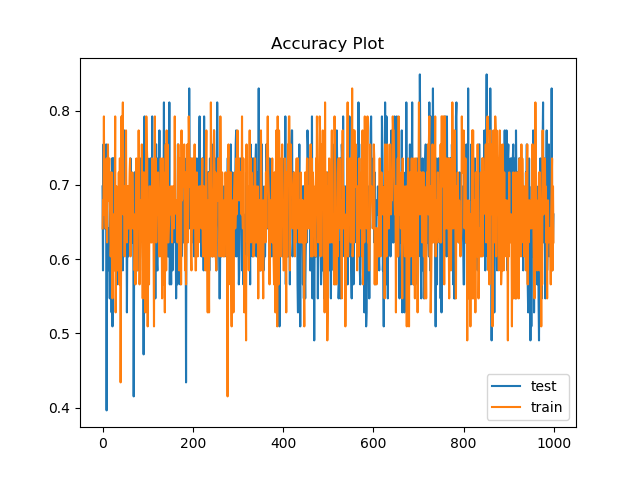
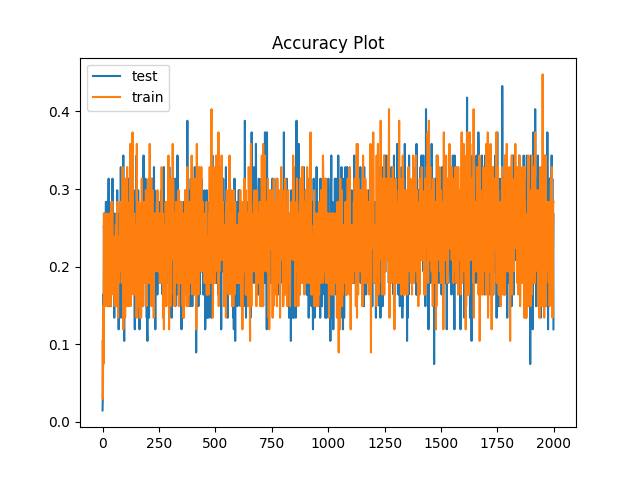
fix

diff --git a/main.py b/main.py
@@ -7,16 +7,25 @@ import matplotlib.pyplot as plt
 from ship import Ship
 from alien import Alien
 from bot import Bot
-import pickle
+#import pickle
+import pickle5 as pickle
+import pandas as pd
+
 
 
 
 class NN:
-    def __init__(self, input_size, hidden_size1, hidden_size2, output_size, learning_rate, num_epochs, batch_size, model_type):
+    def __init__(self, input_size, hidden_size1, hidden_size2, hidden_size3, hidden_size4, hidden_size5, hidden_size6, hidden_size7, hidden_size8,  output_size, learning_rate, num_epochs, batch_size, model_type):
         #np.random.seed(0)
         self.input_size = input_size
         self.hidden_size1 = hidden_size1
         self.hidden_size2 = hidden_size2
+        self.hidden_size3 = hidden_size3
+        self.hidden_size4 = hidden_size4
+        self.hidden_size5 = hidden_size5
+        self.hidden_size6 = hidden_size6
+        self.hidden_size7 = hidden_size7
+        self.hidden_size8 = hidden_size8
         self.output_size = output_size
         self.lr = learning_rate  #Haven't done anything smarter than standard SGD here
         self.epochs = num_epochs
@@ -41,10 +50,18 @@ class NN:
         self.b1 = np.zeros((self.hidden_size1, 1))
         self.W2 = np.random.randn(self.hidden_size2, self.hidden_size1) * math.sqrt(1.0/self.hidden_size1) #np.zeros(self.output_size, self.hidden_size) #np.random.randn(self.output_size, self.hidden_size) * 0.01
         self.b2 = np.zeros((self.hidden_size2, 1))
-        self.W3 = np.random.randn(self.output_size, self.hidden_size2) * math.sqrt(1.0/self.hidden_size2) #np.zeros(self.output_size, self.hidden_size) #np.random.randn(self.output_size, self.hidden_size) * 0.01
-        self.b3 = np.zeros((self.output_size, 1))
-        #self.W3 = np.random.randn(self.output_size, self.hidden_size2) * math.sqrt(1.0/self.hidden_size2) #np.zeros(self.output_size, self.hidden_size) #np.random.randn(self.output_size, self.hidden_size) * 0.01
-        #self.b3 = np.zeros((self.output_size, 1))
+        self.W3 = np.random.randn(self.hidden_size3, self.hidden_size2) * math.sqrt(1.0/self.hidden_size2) #np.zeros(self.output_size, self.hidden_size) #np.random.randn(self.output_size, self.hidden_size) * 0.01
+        self.b3 = np.zeros((self.hidden_size3, 1))
+        self.W4 = np.random.randn(self.hidden_size4, self.hidden_size3) * math.sqrt(1.0/self.hidden_size3) #np.zeros(self.output_size, self.hidden_size) #np.random.randn(self.output_size, self.hidden_size) * 0.01
+        self.b4 = np.zeros((self.hidden_size4, 1))
+        self.W5 = np.random.randn(self.hidden_size5, self.hidden_size4) * math.sqrt(1.0/self.hidden_size4) #np.zeros(self.output_size, self.hidden_size) #np.random.randn(self.output_size, self.hidden_size) * 0.01
+        self.b5 = np.zeros((self.hidden_size5, 1))
+        self.W6 = np.random.randn(self.hidden_size6, self.hidden_size5) * math.sqrt(1.0/self.hidden_size5) #np.zeros(self.output_size, self.hidden_size) #np.random.randn(self.output_size, self.hidden_size) * 0.01
+        self.b6 = np.zeros((self.hidden_size6, 1))
+        self.W7 = np.random.randn(self.hidden_size7, self.hidden_size6) * math.sqrt(1.0/self.hidden_size6) #np.zeros(self.output_size, self.hidden_size) #np.random.randn(self.output_size, self.hidden_size) * 0.01
+        self.b7 = np.zeros((self.hidden_size7, 1))
+        self.W8 = np.random.randn(self.output_size, self.hidden_size7) * math.sqrt(1.0/self.hidden_size7) #np.zeros(self.output_size, self.hidden_size) #np.random.randn(self.output_size, self.hidden_size) * 0.01
+        self.b8 = np.zeros((self.output_size, 1))
     
     #Activation & Loss Functions
     def sigmoid(self, x):
@@ -98,14 +115,30 @@ class NN:
         #else:
         A2 = self.relu(Z2)
         #self.A2 = self.relu(self.Z2)
-        
+
         Z3 = np.matmul(self.W3, A2) + self.b3
+        A3 = self.relu(Z3)
+
+        Z4 = np.matmul(self.W4, A3) + self.b4
+        A4 = self.relu(Z4)
+
+        Z5 = np.matmul(self.W5, A4) + self.b5
+        A5 = self.relu(Z5)
+
+        Z6 = np.matmul(self.W6, A5) + self.b6
+        A6 = self.relu(Z6)
+
+        Z7 = np.matmul(self.W7, A6) + self.b7
+        A7 = self.relu(Z7)
+
+        Z8 = np.matmul(self.W8, A7) + self.b8
+    
         
         #A3 = self.sigmoid(Z3)
         if self.model_type == 2:
-            A3 = self.sigmoid(Z3)
+            A8 = self.sigmoid(Z8)
         else:
-            A3 = self.softmax(Z3)
+            A8 = self.softmax(Z8)
 
 
         if test == False:
@@ -115,8 +148,19 @@ class NN:
             self.A2 = A2
             self.Z3 = Z3
             self.A3 = A3
+
+            self.Z4 = Z4
+            self.A4 = A4
+            self.Z5 = Z5
+            self.A5 = A5
+            self.Z6 = Z6
+            self.A6 = A6
+            self.Z7 = Z7
+            self.A7 = A7
+            self.Z8 = Z8
+            self.A8 = A8
         
-        return A3
+        return A8
 
     
     # backward propagation
@@ -138,10 +182,10 @@ class NN:
         #print(self.A2.shape)
        
         if self.model_type == 1:
-            dA3 = ((self.A3) - y)
+            dA8 = ((self.A8) - y)
         else:
             #dA3 = (self.A3 * (1-self.A3))
-            dA3 = - (y/(self.A3)+1e-15) + ((1-y)/((1-self.A3)+1e-15))
+            dA8 = - (y/(self.A8)+1e-15) + ((1-y)/((1-self.A8)+1e-15))
         #if self.model_type == 1:
         #    dA3 = (self.softmax(self.A3) - y) #sus
         #else:
@@ -151,23 +195,41 @@ class NN:
     
         # compute the derivative of the activation function of the output layer
         #dZ2 = dA2 * self.d_relu(self.Z2)
-        dZ3 = dA3 * (self.A3 * (1-self.A3))
+        dZ8 = dA8 * (self.A8 * (1-self.A8))
+        self.dW8 = (1/m) * np.matmul(dZ8, self.A7.T)
+        self.db8 = (1/m) * np.sum(dZ8, axis=1, keepdims=True)
+
+        dA7 = np.dot(self.W8.T, dZ8)
+        dZ7 = dA7 * self.d_relu(self.A7)
+        self.dW7 = (1/m) * np.matmul(dZ7, self.A6.T)
+        self.db7 = (1/m) * np.sum(dZ7, axis=1, keepdims=True)
         
+        dA6 = np.dot(self.W7.T, dZ7)
+        dZ6 = dA6 * self.d_relu(self.A6)
+        self.dW6 = (1/m) * np.matmul(dZ6, self.A5.T)
+        self.db6 = (1/m) * np.sum(dZ6, axis=1, keepdims=True)
 
-        #dZ2 = dA2 * self.d_sigmoid(self.Z2)
+        dA5 = np.dot(self.W6.T, dZ6)
+        dZ5 = dA5 * self.d_relu(self.A5)
+        self.dW5 = (1/m) * np.matmul(dZ5, self.A4.T)
+        self.db5 = (1/m) * np.sum(dZ5, axis=1, keepdims=True)
+
+        dA4 = np.dot(self.W5.T, dZ5)
+        dZ4 = dA4 * self.d_relu(self.A4)
+        self.dW4 = (1/m) * np.matmul(dZ4, self.A3.T)
+        self.db4 = (1/m) * np.sum(dZ4, axis=1, keepdims=True)
+
+        dA3 = np.dot(self.W4.T, dZ4)
+        dZ3 = dA3 * self.d_relu(self.A3)
+        self.dW3 = (1/m) * np.matmul(dZ3, self.A2.T)
+        self.db3 = (1/m) * np.sum(dZ3, axis=1, keepdims=True)
+
         dA2 = np.dot(self.W3.T, dZ3)
-
         dZ2 = dA2 * self.d_relu(self.A2) #(self.A2 * (1-self.A2)) #This should be correct
-        #print('dZ2 shape: ', dZ2.shape)
-        #print('Z2 shape: ', self.Z2.shape)
-    
         # compute the derivative of the weights and biases of the output layer
         self.dW2 = (1/m) * np.matmul(dZ2, self.A1.T)
-        #print('dW2 shape: ', self.dW2.shape)
-        #print('W2 shape: ', self.W2.shape)
         self.db2 = (1/m) * np.sum(dZ2, axis=1, keepdims=True)
-        #print('db2 shape: ', self.db2.shape)
-        #print('b2 shape: ', self.b2.shape)
+ 
     
         # # compute the derivative of the activation function of the hidden layer
         dA1 = np.dot(self.W2.T, dZ2)
@@ -186,7 +248,6 @@ class NN:
         self.dW1 = (1/m) * np.dot(dZ1, X)
         self.db1 = (1/m) * np.sum(dZ1, axis=1, keepdims=True)
     
-    # update parameters
     def update_parameters(self):
         # update the weights and biases
         self.W1 = self.W1 - self.lr * self.dW1
@@ -195,15 +256,35 @@ class NN:
         self.b2 = self.b2 - self.lr * self.db2
         self.W3 = self.W3 - self.lr * self.dW3
         self.b3 = self.b3 - self.lr * self.b3
+        self.W4 = self.W4 - self.lr * self.dW4
+        self.b4 = self.b4 - self.lr * self.b4
+        self.W5 = self.W5 - self.lr * self.dW5
+        self.b5 = self.b5 - self.lr * self.b5
+        self.W6 = self.W6 - self.lr * self.dW6
+        self.b6 = self.b6 - self.lr * self.b6
+        self.W7 = self.W7 - self.lr * self.dW7
+        self.b7 = self.b7 - self.lr * self.b7
+        self.W8 = self.W8 - self.lr * self.dW8
+        self.b8 = self.b8 - self.lr * self.b8
         
     
     def zero_grad(self):
         self.dW1 = 0
         self.dW2 = 0
         self.dW3 = 0
+        self.dW4 = 0
+        self.dW5 = 0
+        self.dW6 = 0
+        self.dW7 = 0
+        self.dW8 = 0
         self.db1 = 0 
         self.db2 = 0
         self.db3 = 0
+        self.db4 = 0
+        self.db5 = 0
+        self.db6 = 0
+        self.db7 = 0
+        self.db8 = 0
         
     
     # train the neural network
@@ -265,8 +346,8 @@ class NN:
 
             
 
-            self.train_accuracies.append(self.acc_score(y_batch, self.A3))
-            loss = self.cross_entropy_loss(self.A3, y_batch)
+            self.train_accuracies.append(self.acc_score(y_batch, self.A8))
+            loss = self.cross_entropy_loss(self.A8, y_batch)
             # if self.model_type == 1:
             #     loss = self.cross_entropy_loss(self.A2, y_batch)
             #     #loss = self.cross_entropy_loss(self.predict(x_batch), y_batch)
@@ -392,7 +473,7 @@ def clean_data(dataset, train_split, model_type):
     # print()
 
     print("Train Reshaped:")
-    HH = np.hstack((np.concatenate(X_train[:,1]), np.concatenate(X_train[:,2]))).reshape(X_train.shape[0], 1252)
+    HH = np.hstack((np.concatenate(X_train[:,1]), np.concatenate(X_train[:,2]))).reshape(X_train.shape[0], 1260) #1252)
     X_train = np.hstack((X_train[:,0].reshape(-1, 1), HH))
     print(X_train.shape)
     if model_type == 1:
@@ -405,7 +486,7 @@ def clean_data(dataset, train_split, model_type):
     print()
 
     print("Test Reshaped:")
-    HH = np.hstack((np.concatenate(X_test[:,1]), np.concatenate(X_test[:,2]))).reshape(X_test.shape[0], 1252)
+    HH = np.hstack((np.concatenate(X_test[:,1]), np.concatenate(X_test[:,2]))).reshape(X_test.shape[0], 1260) #1252)
     X_test = np.hstack((X_test[:,0].reshape(-1, 1), HH))
     print(X_test.shape)
     if model_type == 1:
@@ -418,7 +499,10 @@ def clean_data(dataset, train_split, model_type):
 
 def model1(train_split, real_data):
     model_type = 1
-    dataset = np.load('dataframe1.npy', allow_pickle=True)
+    dataset = np.load('dataframe.npy', allow_pickle=True)
+    dataset = pd.DataFrame(dataset)
+    dataset = dataset.fillna(0.0)
+    dataset = dataset.to_numpy()
     
     if real_data:
         
@@ -437,12 +521,9 @@ def model1(train_split, real_data):
         #     pickle.dump(y_test, b_file, pickle.HIGHEST_PROTOCOL)
 
 
-        
-
-
-        X_train[:,0] = X_train[:,0] / (30*30)
-        X_test[:,0] = X_test[:,0] / (30*30)
-        in_size = (len(dataset[0,1])*2)+1
+        # X_train[:,0] = X_train[:,0] / (30*30)
+        # X_test[:,0] = X_test[:,0] / (30*30)
+        # in_size = (len(dataset[0,1])*2)+1
 
 
         # temp = X_train.shape[0]
@@ -460,7 +541,7 @@ def model1(train_split, real_data):
         # sorted_eigenvectors = eigenvectors[:,order_of_importance]
 
         # explained_variance = sorted_eigenvalues / np.sum(sorted_eigenvalues)
-        # k = 200 # select the number of principal components
+        # k = 30 # select the number of principal components
         # reduced_data = np.matmul(X, sorted_eigenvectors[:,:k])
         # total_explained_variance = sum(explained_variance[:k])
         # print(total_explained_variance)
@@ -473,10 +554,7 @@ def model1(train_split, real_data):
 
         # in_size = k
 
-
-
-
-        nn = NN(in_size, 600, 300, 5, 0.5, 1000, 53, model_type)
+        nn = NN(1261, 30, 25, 20, 18, 15, 12, 8, 6, 5, .1, 2000, 67, model_type) #53, model_type)
     else:
         X_train = np.random.randn(59042, 1) # matrix of random x data
         y_train = np.zeros((59042, 5))
@@ -496,7 +574,8 @@ def model1(train_split, real_data):
             else:
                 y_test[i,1] = 1
         
-        nn = NN(1, 20, 10, 5, .1 ,1000, 53, model_type)
+        #nn = NN(1, 20, 10, 5, .1 ,1000, 53, model_type)
+        nn = NN(1, 10, 9, 8, 7, 6, 5, 4, 3, 5, .01, 1000, 53, model_type)
 
     nn.train(X_train.astype(float), y_train.astype(float), X_test.astype(float), y_test.astype(float))
     nn.plotLoss()
@@ -879,12 +958,26 @@ def compareBots(model):
 
     
 if __name__ == "__main__":
+    #x = np.load('Final/board.npy', allow_pickle=True)
+    # open a file, where you stored the pickled data
+    # file = open('Final/board.pickle', 'rb')
+
+    # # dump information to that file
+    # data = pickle.load(file)
+
+    # # close the file
+    # file.close()
+
+    # print(data.print_ship())
+
+
+
     #runSimulate()
-    #nn = model1(train_split=0.7, real_data = True)
+    nn = model1(train_split=0.7, real_data = True)
     #nn = model1(train_split=0.7, real_data = False)
     
     #nn = model2(train_split=0.7, real_data = True)
-    nn = model2(train_split=0.7,real_data = False)
+    #nn = model2(train_split=0.7,real_data = False)
     #compareBots(nn)
     
     
